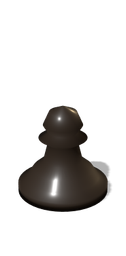
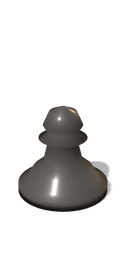
Patt-Warnung als eigener Schalter; dunkle 3D-Figuren jetzt dunkelgrau
- »Warnung vor Patt« ist von »Warnung bei grobem Fehler« getrennt und
  einzeln abschaltbar (beide unter Einstellungen → Lernen, Standard an).
- Die dunklen 3D-Figuren sind von Fast-Schwarz auf Dunkelgrau aufgehellt
  und setzen sich damit klar vom dunklen App-Hintergrund ab (vor allem
  die hinterste Reihe, deren Köpfe über den Brettrand ragen).

Claude-Session: https://claude.ai/code/session_011FWfUHrb8F8dsvg2M3nan1

Changed region(s): [[0.1429, 0.4062, 0.8571, 0.8438]]

diff --git a/src/stores/settings.ts b/src/stores/settings.ts
@@ -15,6 +15,8 @@ export interface SettingsState {
   autoFlip: boolean
   showEval: boolean
   blunderWarning: boolean
+  /** Warnung, bevor ein Zug den Gegner patt setzt, obwohl man klar führt. */
+  pattWarning: boolean
   /** Zug-Kommentare: bewertet nach jedem eigenen Zug, wie gut er war. */
   moveFeedback: boolean
   sound: boolean
@@ -33,6 +35,7 @@ const defaults: SettingsState = {
   autoFlip: false,
   showEval: false,
   blunderWarning: true,
+  pattWarning: true,
   moveFeedback: false,
   sound: true,
   haptics: true,

diff --git a/src/stores/game.ts b/src/stores/game.ts
@@ -282,7 +282,7 @@ export const useGame = defineStore('game', {
       // Patt-Schutz: Würde der Zug den Gegner sofort patt setzen, obwohl man
       // klar auf Gewinn steht, erst nachfragen (klassische Anfänger-Falle:
       // Dame erstickt den nackten König – Partie plötzlich unentschieden).
-      if (settings.blunderWarning && !pattApproved) {
+      if (settings.pattWarning && !pattApproved) {
         try {
           const probe = new Chess(this.fen)
           probe.move({ from, to, promotion })

diff --git a/src/components/SettingsPanel.vue b/src/components/SettingsPanel.vue
@@ -77,6 +77,10 @@ function startNewGame() {
           <input v-model="settings.blunderWarning" type="checkbox" />
         </label>
         <label class="row toggle">
+          <span>Warnung vor Patt</span>
+          <input v-model="settings.pattWarning" type="checkbox" />
+        </label>
+        <label class="row toggle">
           <span>Zug-Kommentare nach jedem Zug</span>
           <input v-model="settings.moveFeedback" type="checkbox" />
         </label>
